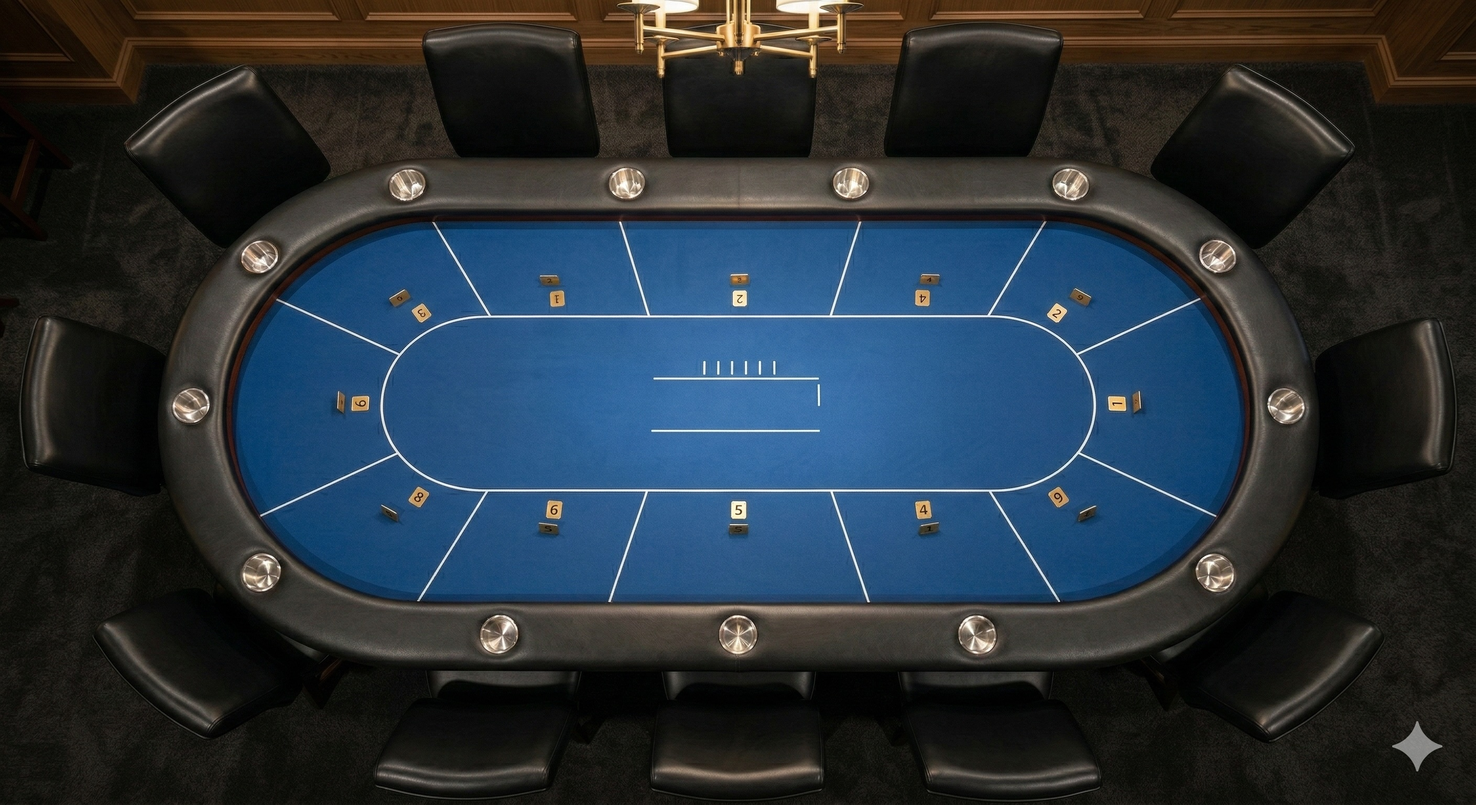
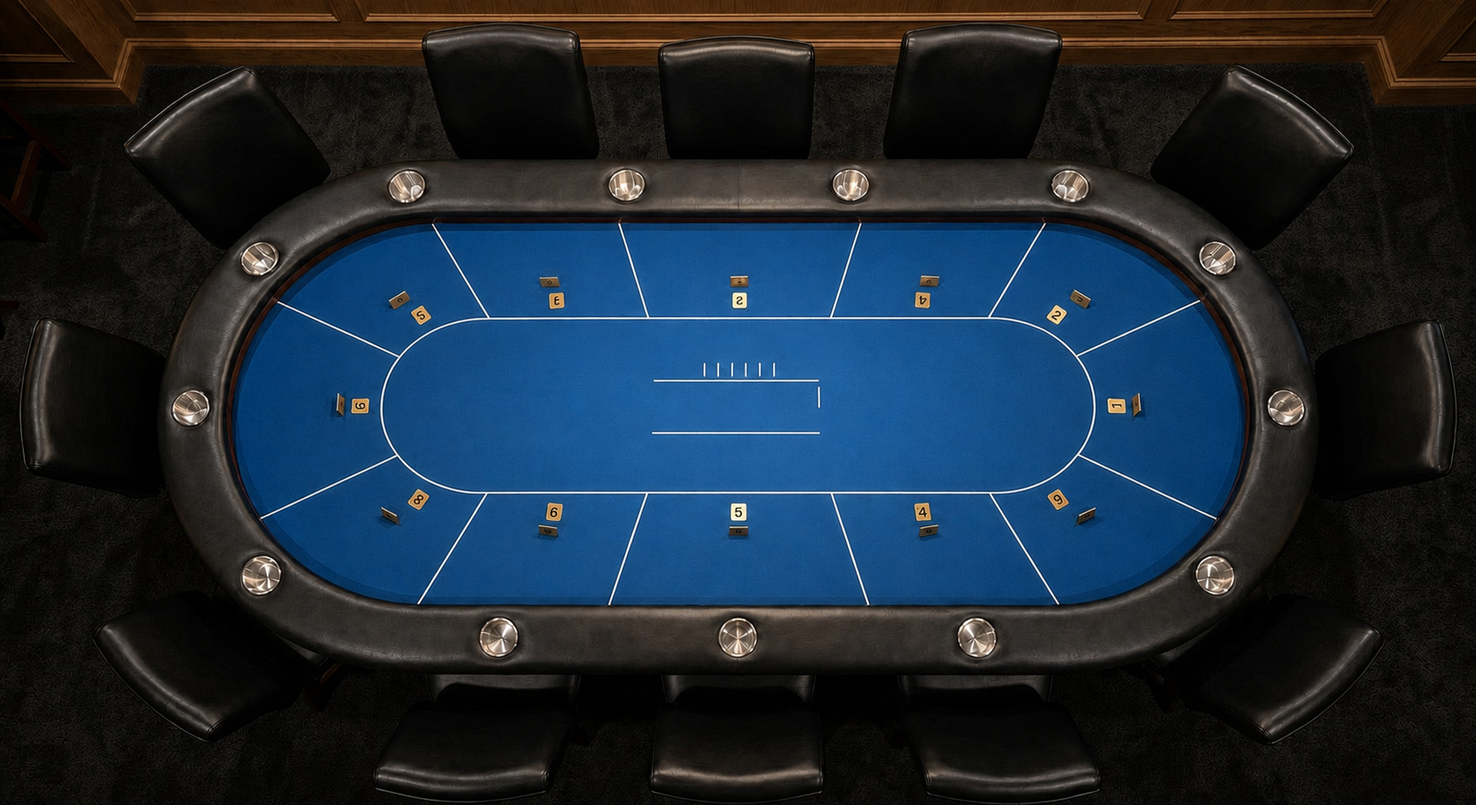
Table image fixed

diff --git a/public/rtc-session-pool-worker.js b/public/rtc-session-pool-worker.js
@@ -1,0 +1,248 @@
+const ports = new Map();
+const sessions = new Map();
+let nextPortId = 1;
+
+const STALE_PORT_MS = 15000;
+const PRUNE_INTERVAL_MS = 5000;
+
+function formatPeer(value) {
+  const text = value ? String(value) : '';
+  if (!text) return 'unknown';
+  return text.length <= 12 ? text : `${text.slice(0, 6)}...${text.slice(-4)}`;
+}
+
+function logWorker(message, details = undefined) {
+  if (details === undefined) {
+    console.log(`[RTC pool worker] ${message}`);
+    return;
+  }
+  console.log(`[RTC pool worker] ${message}`, details);
+}
+
+function sessionKey({ playerAddress, lobbyId, tableId, endpoint = 'table' }) {
+  const scopedTableId = endpoint === 'lobby' ? 'lobby' : String(tableId ?? '');
+  return [
+    String(endpoint),
+    String(playerAddress ?? '').toLowerCase(),
+    String(lobbyId ?? ''),
+    scopedTableId,
+  ].join(':');
+}
+
+function addSession(key, portId) {
+  const portIds = sessions.get(key) ?? new Set();
+  portIds.add(portId);
+  sessions.set(key, portIds);
+}
+
+function removeSession(key, portId = null) {
+  if (portId == null) {
+    sessions.delete(key);
+    return;
+  }
+
+  const portIds = sessions.get(key);
+  if (!portIds) return;
+  portIds.delete(portId);
+  if (portIds.size === 0) {
+    sessions.delete(key);
+  }
+}
+
+function unregisterPort(portId, reason = 'unknown') {
+  if (!ports.has(portId)) return;
+
+  ports.delete(portId);
+  logWorker('port unregistered', { portId, reason });
+  sessions.forEach((portIds, key) => {
+    if (!portIds.has(portId)) return;
+    portIds.delete(portId);
+    logWorker('session removed for port', { key, portId });
+    if (portIds.size === 0) {
+      sessions.delete(key);
+    }
+  });
+}
+
+function touchPort(portId) {
+  const entry = ports.get(portId);
+  if (entry) {
+    entry.lastSeen = Date.now();
+  }
+}
+
+function post(portId, message) {
+  const entry = ports.get(portId);
+  if (!entry) return false;
+
+  try {
+    logWorker(`post ${message.type}`, {
+      portId,
+      signalId: message.signal?.id ?? message.id ?? null,
+      target: formatPeer(message.signal?.targetAddress),
+    });
+    entry.port.postMessage(message);
+    return true;
+  } catch (error) {
+    logWorker('post failed, unregistering port', { portId, error: error?.message });
+    unregisterPort(portId, 'post failed');
+    return false;
+  }
+}
+
+function broadcast(message, exceptPortId = null) {
+  pruneStalePorts();
+  let sent = false;
+  [...ports.keys()].forEach((portId) => {
+    if (portId === exceptPortId) return;
+    logWorker(`broadcast ${message.type}`, {
+      portId,
+      signalId: message.signal?.id ?? message.id ?? null,
+      target: formatPeer(message.signal?.targetAddress),
+    });
+    sent = post(portId, message) || sent;
+  });
+  return sent;
+}
+
+function getTargetPortIds(key, exceptPortId) {
+  pruneStalePorts();
+  return [...(sessions.get(key) ?? [])]
+    .filter((portId) => portId !== exceptPortId && ports.has(portId))
+    .sort((a, b) => (ports.get(b)?.lastSeen ?? 0) - (ports.get(a)?.lastSeen ?? 0));
+}
+
+function postFirstLiveTarget(portIds, message) {
+  for (const portId of portIds) {
+    if (post(portId, message)) {
+      return portId;
+    }
+  }
+  return null;
+}
+
+function pruneStalePorts() {
+  const now = Date.now();
+  [...ports.entries()].forEach(([portId, entry]) => {
+    if (now - entry.lastSeen > STALE_PORT_MS) {
+      unregisterPort(portId, 'heartbeat stale');
+    }
+  });
+}
+
+self.onconnect = (event) => {
+  const [port] = event.ports;
+  const portId = nextPortId;
+  nextPortId += 1;
+  ports.set(portId, { port, lastSeen: Date.now() });
+  logWorker('port connected', { portId });
+
+  port.onmessage = (messageEvent) => {
+    const message = messageEvent.data;
+    touchPort(portId);
+
+    if (!['HEARTBEAT', 'DISCONNECT'].includes(message?.type)) {
+      logWorker(`message received ${message?.type ?? 'unknown'}`, { portId });
+    }
+
+    if (message?.type === 'HEARTBEAT') {
+      return;
+    }
+
+    if (message?.type === 'DISCONNECT') {
+      unregisterPort(portId, 'disconnect');
+      return;
+    }
+
+    if (message?.type === 'REGISTER_SESSION') {
+      const key = sessionKey(message.session);
+      addSession(key, portId);
+      logWorker('session registered', { portId, key });
+      return;
+    }
+
+    if (message?.type === 'UNREGISTER_SESSION') {
+      const key = sessionKey(message.session);
+      removeSession(key, portId);
+      logWorker('session unregistered', { portId, key });
+      return;
+    }
+
+    if (message?.type === 'RTC_POOL_SIGNAL') {
+      const targetKey = sessionKey({
+        playerAddress: message.signal?.targetAddress,
+        lobbyId: message.signal?.lobbyId,
+        tableId: message.signal?.tableId,
+        endpoint: message.signal?.targetEndpoint,
+      });
+      const targetPortIds = getTargetPortIds(targetKey, portId);
+      const targetPortId = postFirstLiveTarget(targetPortIds, {
+        type: 'RTC_POOL_SIGNAL',
+        signal: message.signal,
+        fromSharedWorker: true,
+      });
+
+      if (targetPortId != null) {
+        logWorker('direct signal route', {
+          signalId: message.signal?.id,
+          fromPortId: portId,
+          targetPortId,
+          skippedDuplicatePorts: Math.max(targetPortIds.length - 1, 0),
+        });
+        return;
+      }
+
+      logWorker('direct route unavailable, scattering', {
+        signalId: message.signal?.id,
+        from: formatPeer(message.signal?.originAddress),
+        to: formatPeer(message.signal?.targetAddress),
+      });
+      broadcast({
+        type: 'SCATTER_RTC_POOL_SIGNAL',
+        signal: message.signal,
+        fromSharedWorker: true,
+      }, portId);
+      return;
+    }
+
+    if (message?.type === 'RTC_POOL_ROUTE_REQUEST') {
+      broadcast({
+        type: 'RTC_POOL_ROUTE_REQUEST',
+        requestId: message.requestId,
+        requesterTabId: message.requesterTabId,
+        signal: message.signal,
+        fromSharedWorker: true,
+      }, portId);
+      return;
+    }
+
+    if (message?.type === 'RTC_POOL_ROUTE_RESULT') {
+      broadcast({
+        type: 'RTC_POOL_ROUTE_RESULT',
+        requestId: message.requestId,
+        requesterTabId: message.requesterTabId,
+        targetTabId: message.targetTabId,
+        signalId: message.signalId,
+        found: message.found,
+        reason: message.reason,
+        fromSharedWorker: true,
+      }, portId);
+      return;
+    }
+
+    if (message?.type === 'RTC_POOL_SIGNAL_DELIVERED') {
+      broadcast({
+        type: 'RTC_POOL_SIGNAL_DELIVERED',
+        id: message.id,
+        fromSharedWorker: true,
+      }, portId);
+    }
+  };
+
+  port.onmessageerror = () => unregisterPort(portId, 'message error');
+  port.start();
+  port.postMessage({ type: 'READY', portId });
+  logWorker('ready sent', { portId });
+};
+
+setInterval(pruneStalePorts, PRUNE_INTERVAL_MS);

diff --git a/components/table_screen/Component.jsx b/components/table_screen/Component.jsx
@@ -99,6 +99,9 @@ export default function TableScreen({
   const winnerLabel = winnerAddress
     ? getPlayerDisplayname?.(winnerAddress) || winnerAddress.slice(2, 4).toUpperCase()
     : null;
+  const resultTitleText = !isCheatResult && gameState?.resultText !== 'You Win'
+    ? `${winnerLabel ?? 'Winner'} Wins`
+    : gameState?.resultText;
   const resultRankText = gameState?.resultRank
     ? gameState.resultText === 'You Win'
       ? gameState.resultRank
@@ -114,7 +117,9 @@ export default function TableScreen({
       : null;
   const resultColorClass = isCheatResult
     ? gameState.cheat.isViewerCheater ? 'text-red-300' : 'text-purple-300'
-    : gameState?.resultText === 'You Win' ? 'text-emerald-300' : 'text-red-300';
+    : gameState?.resultText === 'You Win'
+      ? 'text-yellow-200 drop-shadow-[0_0_28px_rgba(250,204,21,0.95)]'
+      : 'text-orange-500 drop-shadow-[0_0_28px_rgba(249,115,22,0.9)]';
   const payoutStyle = payoutPositionStyle(tableData, currentPlayerAddress, gameState?.payout?.winner);
 
   return (
@@ -132,8 +137,8 @@ export default function TableScreen({
 
           {showResult && (
             <div className="absolute left-1/2 top-[-36%] z-30 -translate-x-1/2 pointer-events-none">
-              <div className={`text-center text-4xl md:text-6xl font-black uppercase tracking-widest italic drop-shadow-[0_0_28px_rgba(255,255,255,0.3)] ${resultColorClass}`}>
-                {gameState.resultText}
+              <div className={`text-center text-4xl md:text-6xl font-black uppercase tracking-widest italic ${isCheatResult ? 'drop-shadow-[0_0_28px_rgba(255,255,255,0.3)]' : ''} ${resultColorClass}`}>
+                {resultTitleText}
               </div>
               {resultRankText && (
                 <div className={`mt-2 text-center text-sm md:text-base font-black uppercase tracking-[0.25em] drop-shadow-[0_0_18px_rgba(20,184,166,0.35)] ${isCheatResult ? resultColorClass : 'text-white'}`}>
